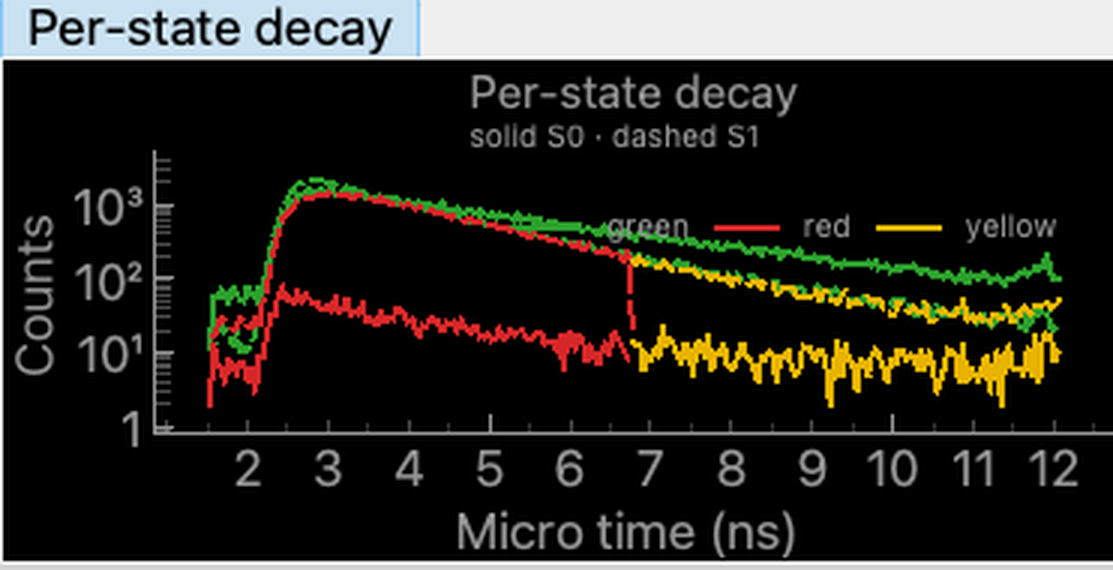
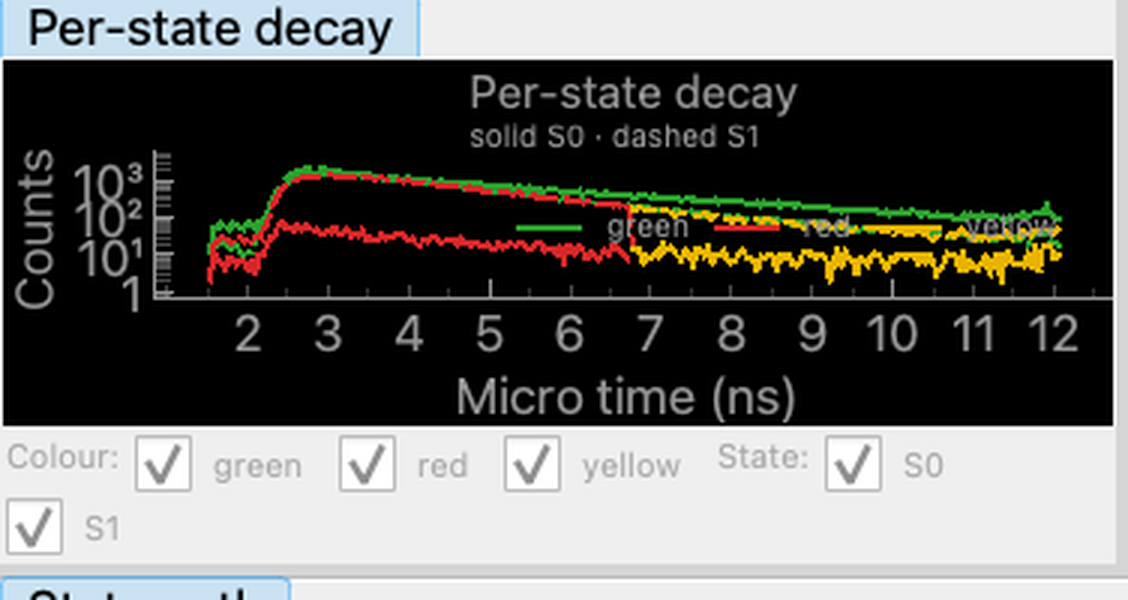
feat(h2mm): choose which colours and states the decay plot shows
Splitting the per-state decays per colour made them meaningful, and left the
panel drawing colours × states curves at once. On a two-state PIE fit that is
six curves in a dock a few hundred pixels wide -- correct, and unreadable.

The dock now carries a filter bar: a checkbox per detection colour and one per
state. It opens on the donor alone with all states shown, because the per-state
donor lifetime is the FRET readout and everything at once is what made this
unusable; the other colours are one visible tick away. The bar is rebuilt from
each fit -- a refit can change the state count, and a stale "S3" box would filter
on a state that no longer exists -- while keeping whatever is already ticked, so
a refit does not silently change what is being looked at. Computing and drawing
are now separate, so a toggle redraws without re-histogramming anything.

Three details came out of looking at the rendered panel rather than asserting on
it:

* the bar is a FlowLayout (the repo already had one, in the dock tab bar)
  because a plain row put the state checkboxes off the edge of the dock at its
  default width, where they cannot be ticked at all;
* its type is compact, because the bar's height comes straight off the plot and
  the first version left the log-axis decades colliding;
* the legend is drawn only when more than one colour is shown -- with a single
  colour it repeats the ticked checkbox while sitting on the curve it names.

diff --git a/chisurf/plugins/burst/burst_h2mm/gui/tool.py b/chisurf/plugins/burst/burst_h2mm/gui/tool.py
@@ -533,6 +533,34 @@ class H2mmTool(MessagesMixin, QMainWindow):
         # style and spelled out in the title instead.
         self._nano_legend = self._p_nano.addLegend(offset=(-5, 5), labelTextSize="7pt")
 
+        # states × colours curves is more than a small plot can carry, so the
+        # dock owns a filter bar: which colours, which states. Built empty and
+        # populated from the fit, because neither set is known until then.
+        nano_page = QWidget()
+        nano_v = QVBoxLayout(nano_page)
+        nano_v.setContentsMargins(0, 0, 0, 0)
+        nano_v.setSpacing(2)
+        nano_v.addWidget(w_nano, 1)
+        # A flow layout, not a row: with three colours and up to five states the
+        # bar is wider than this dock at its default width, and a control that
+        # has fallen off the edge cannot be ticked. Wrapping keeps every one
+        # reachable however narrow the dock is dragged.
+        from chisurf.gui.widgets.dock_area.dock_stacked_tab_bar import FlowLayout
+
+        self._nano_filter_bar = QWidget()
+        # Compact type, like the other in-plot toggles: the bar is chrome around
+        # a small plot, and every pixel it takes comes off the decay.
+        self._nano_filter_bar.setStyleSheet(
+            "QCheckBox, QLabel { color: #aaa; font-size: 11px; }"
+        )
+        self._nano_filter_layout = FlowLayout(
+            self._nano_filter_bar, margin=1, h_spacing=5, v_spacing=1
+        )
+        nano_v.addWidget(self._nano_filter_bar)
+        self._nano_colour_boxes: dict[str, QCheckBox] = {}
+        self._nano_state_boxes: dict[int, QCheckBox] = {}
+        self._nano_decays = None
+
         w_rates = self._new_plot(self._DOCK_RATES)
         self._p_rates = w_rates.getPlotItem()
         self._p_rates.setLabels(bottom="to state", left="from state")
@@ -586,7 +614,7 @@ class H2mmTool(MessagesMixin, QMainWindow):
             self._DOCK_TDP: w_tdp,
             self._DOCK_SEL: w_sel,
             self._DOCK_DWELL: w_dwell,
-            self._DOCK_NANO: w_nano,
+            self._DOCK_NANO: nano_page,
             self._DOCK_RATES: w_rates,
             self._DOCK_PATH: path_page,
         }
@@ -1410,25 +1438,90 @@ class H2mmTool(MessagesMixin, QMainWindow):
         if micro.shape[0] != path.shape[0] or micro.size == 0 or int(micro.max()) <= 0:
             return
 
-        decays = state_decays(
+        self._nano_decays = state_decays(
             micro, meta.channel, self._bundle.data.streams, path,
             n_states=int(ana.fret.shape[0]),
             groups=colour_groups(ana, self._bundle.settings),
             micro_time_ns=getattr(self._bundle, "micro_time_ns", None),
         )
+        self._rebuild_nano_filters(self._nano_decays)
+        self._draw_nanotime()
+
+    def _rebuild_nano_filters(self, decays) -> None:
+        """Offer one checkbox per colour and per state, for *this* fit.
+
+        Rebuilt rather than reused: a refit can change the state count, and a
+        stale "S3" box would filter on a state that no longer exists. A colour or
+        state already on screen keeps its tick, so a refit does not silently
+        change what is being looked at.
+        """
+        previous_colours = {n: b.isChecked() for n, b in self._nano_colour_boxes.items()}
+        previous_states = {s: b.isChecked() for s, b in self._nano_state_boxes.items()}
+        while self._nano_filter_layout.count():
+            item = self._nano_filter_layout.takeAt(0)
+            widget = item.widget()
+            if widget is not None:
+                widget.deleteLater()
+        self._nano_colour_boxes = {}
+        self._nano_state_boxes = {}
+
+        self._nano_filter_layout.addWidget(QLabel("Colour:"))
+        for i, colour in enumerate(decays.colours):
+            box = QCheckBox(colour)
+            # Default to the donor alone: every colour at once is what made this
+            # plot unreadable. The rest are one tick away, and visibly so.
+            box.setChecked(previous_colours.get(colour, i == 0))
+            box.setToolTip(
+                f"Show the {colour} decays "
+                f"(detectors {decays.colour_channels.get(colour, [])})"
+            )
+            box.toggled.connect(self._draw_nanotime)
+            self._nano_filter_layout.addWidget(box)
+            self._nano_colour_boxes[colour] = box
+
+        self._nano_filter_layout.addWidget(QLabel("State:"))
+        for s in range(decays.n_states):
+            box = QCheckBox(f"S{s}")
+            box.setChecked(previous_states.get(s, True))
+            box.setToolTip(f"Show state {s} ({self._DASH_NAMES[s % len(self._DASH_NAMES)]})")
+            box.toggled.connect(self._draw_nanotime)
+            self._nano_filter_layout.addWidget(box)
+            self._nano_state_boxes[s] = box
+
+    def _draw_nanotime(self) -> None:
+        """Draw the decays the filter bar selects. Cheap: nothing is recomputed."""
+        decays = self._nano_decays
+        p = self._p_nano
+        p.clear()
+        self._nano_legend.clear()
+        if decays is None:
+            return
         x = decays.centers_ns()
         p.setLabel("bottom", "Micro time (ns)" if decays.micro_time_ns else "Micro time")
         named: set[str] = set()
         states_drawn: set[int] = set()
+        # With one colour on screen the legend only repeats what the ticked
+        # checkbox already says, while sitting on top of the curve it names.
+        selected = [
+            c for c in decays.colours
+            if (b := self._nano_colour_boxes.get(c)) is None or b.isChecked()
+        ]
+        label_curves = len(selected) > 1
         for k, colour in enumerate(decays.colours):
+            box = self._nano_colour_boxes.get(colour)
+            if box is not None and not box.isChecked():
+                continue
             for s in range(decays.n_states):
+                s_box = self._nano_state_boxes.get(s)
+                if s_box is not None and not s_box.isChecked():
+                    continue
                 y = decays.colour_counts[s, k]
                 keep = y > 0
                 if not keep.any():
                     continue
                 # Name one curve per colour: the legend answers "which colour is
                 # which", the title answers "which line style is which state".
-                name = colour if colour not in named else None
+                name = colour if (label_curves and colour not in named) else None
                 named.add(colour)
                 states_drawn.add(s)
                 p.plot(x[keep], y[keep], pen=self._colour_pen(colour, s), name=name)

diff --git a/chisurf/plugins/burst/burst_h2mm/tests/test_state_decays.py b/chisurf/plugins/burst/burst_h2mm/tests/test_state_decays.py
@@ -159,3 +159,60 @@ def test_colour_groups_names_come_from_the_detectors():
         aex_streams = ()
 
     assert colour_groups(_NoAex(), _Settings()) == [("gg", (0,)), ("rr", (1,))]
+
+
+def test_the_decay_panel_filters_by_colour_and_state(qapp, tmp_path):
+    """states × colours is more than one small plot can carry — so it is a choice.
+
+    Defaults to the donor alone (every colour at once is what made the plot
+    unreadable) with all states shown, and every control stays reachable.
+    """
+    import numpy as np
+
+    from chisurf.plugins.burst.burst_h2mm.gui.tool import H2mmTool
+    from chisurf.plugins.burst.burst_h2mm.core.decays import state_decays
+
+    tool = H2mmTool(embedded=True)
+    try:
+        rng = np.random.default_rng(0)
+        n = 600
+        micro = rng.integers(0, 400, n)
+        chan = rng.integers(0, 2, n)
+        strm = chan.copy()
+        path = rng.integers(0, 2, n)
+        decays = state_decays(
+            micro, chan, strm, path, n_states=2,
+            groups=[("green", (0,)), ("red", (1,))], n_bins=64,
+        )
+        tool._nano_decays = decays
+        tool._rebuild_nano_filters(decays)
+
+        assert set(tool._nano_colour_boxes) == {"green", "red"}
+        assert set(tool._nano_state_boxes) == {0, 1}
+        assert tool._nano_colour_boxes["green"].isChecked(), "the donor shows by default"
+        assert not tool._nano_colour_boxes["red"].isChecked(), "the rest are a tick away"
+        assert all(b.isChecked() for b in tool._nano_state_boxes.values())
+
+        def drawn():
+            return len([i for i in tool._p_nano.listDataItems()])
+
+        tool._draw_nanotime()
+        assert drawn() == 2, "one green curve per state"
+
+        tool._nano_colour_boxes["red"].setChecked(True)
+        assert drawn() == 4, "both colours, both states"
+
+        tool._nano_state_boxes[1].setChecked(False)
+        assert drawn() == 2, "one state, both colours"
+
+        tool._nano_colour_boxes["green"].setChecked(False)
+        tool._nano_colour_boxes["red"].setChecked(False)
+        assert drawn() == 0, "nothing selected draws nothing, rather than everything"
+
+        # A refit keeps what is on screen rather than silently changing it.
+        tool._nano_colour_boxes["red"].setChecked(True)
+        tool._rebuild_nano_filters(decays)
+        assert tool._nano_colour_boxes["red"].isChecked()
+        assert not tool._nano_colour_boxes["green"].isChecked()
+    finally:
+        tool.close()

diff --git a/okf/log.md b/okf/log.md
@@ -2,6 +2,25 @@
 
 ## 2026-07-28
 
+* **The per-state decay plot is a choice, not a dump.** Splitting the decays per
+  colour made them meaningful but left the panel drawing colours × states curves
+  at once — on a two-state PIE fit that is six, on a small dock unreadable. The
+  *Per-state decay* dock now carries a filter bar: one checkbox per detection
+  colour, one per state, rebuilt from each fit (a refit can change the state
+  count, and a stale "S3" would filter on a state that no longer exists) while
+  keeping whatever is already ticked. It opens on the **donor alone, all
+  states** — the per-state donor lifetime is the FRET readout — with the rest one
+  visible tick away. Compute and draw are now separate, so a toggle redraws
+  without re-histogramming. Three things came out of *looking* at it rather than
+  asserting: the bar is a `FlowLayout` (the repo already had one) because a plain
+  row put the state boxes off the edge of the dock at its default width, where
+  they cannot be ticked; the type is compact because the bar's height came
+  straight off the plot and left the log-axis decades colliding; and the legend
+  is drawn only when more than one colour is shown, since with one it merely sits
+  on the curve it names. Pinned by
+  `test_the_decay_panel_filters_by_colour_and_state`; guide 19 updated with the
+  filter and a re-shot figure.
+
 * **Two plot modules nobody could reach, and the guard that says so.**
   `gui/plots/av_plot.py` sat on the [PRD-64](/prds/prd-64.md) pyqtgraph
   allow-list as a 3-D `pyqtgraph.opengl` file "deferred to PRD-57" — but it had

diff --git a/docs/guides/19_h2mm_hidden_markov.md b/docs/guides/19_h2mm_hidden_markov.md
@@ -70,6 +70,13 @@ The *Per-state decay* panel splits photons by stream and merges only within a
 colour: one curve per (colour, state), drawn in the colour of the light that
 produced it, with the line style giving the state (solid S0, dashed S1, …).
 
+Colours × states is more curves than a small plot can carry, so the panel has a
+**filter bar**: a checkbox per detection colour and one per state. It opens
+showing the **donor alone, all states** — the per-state donor lifetime is the
+FRET readout, and everything at once is unreadable — with the other colours one
+tick away. The legend appears only when more than one colour is shown; with a
+single colour it would just sit on top of the curve it names.
+
 Splitting by *stream* rather than by detector matters under PIE/ALEX, where the
 acceptor-excitation stream shares its detectors with the acceptor stream and is
 separated only by a micro-time window. In the panel below you can see it
@@ -79,7 +86,7 @@ directly: the red curve stops at ~6.8 ns and the yellow one begins there.
 :name: fig-h2mm-state-decays
 :width: 90%
 
-Per-state decays of a two-state fit, one curve per detection colour. Green is
+Per-state decays of a two-state fit with **every colour ticked**. Green is
 the donor, red the sensitised acceptor, yellow the directly excited acceptor —
 red and yellow share the same detectors and are separated by the PIE window at
 ~6.8 ns. Solid is S0 (low FRET: little red), dashed is S1 (high FRET).
